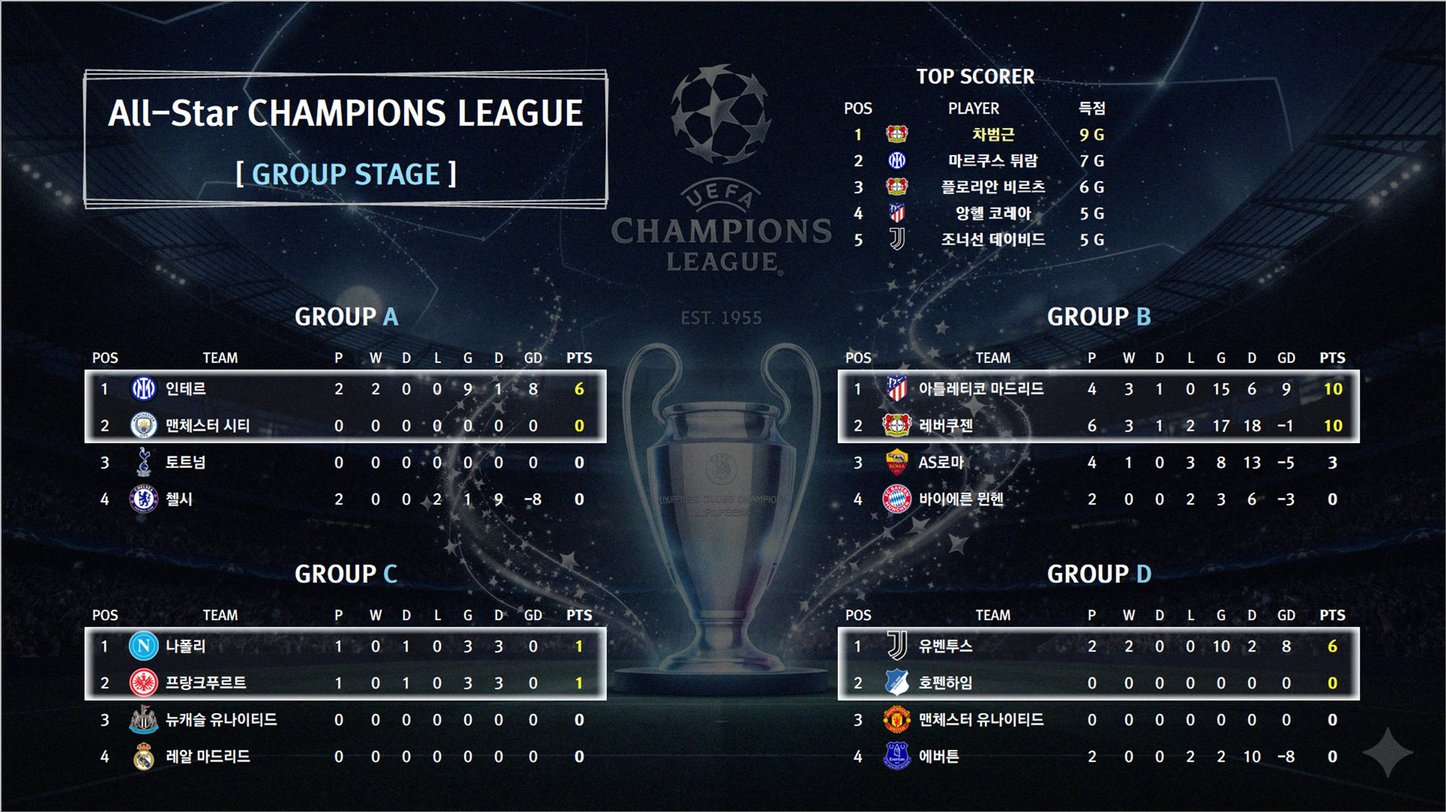
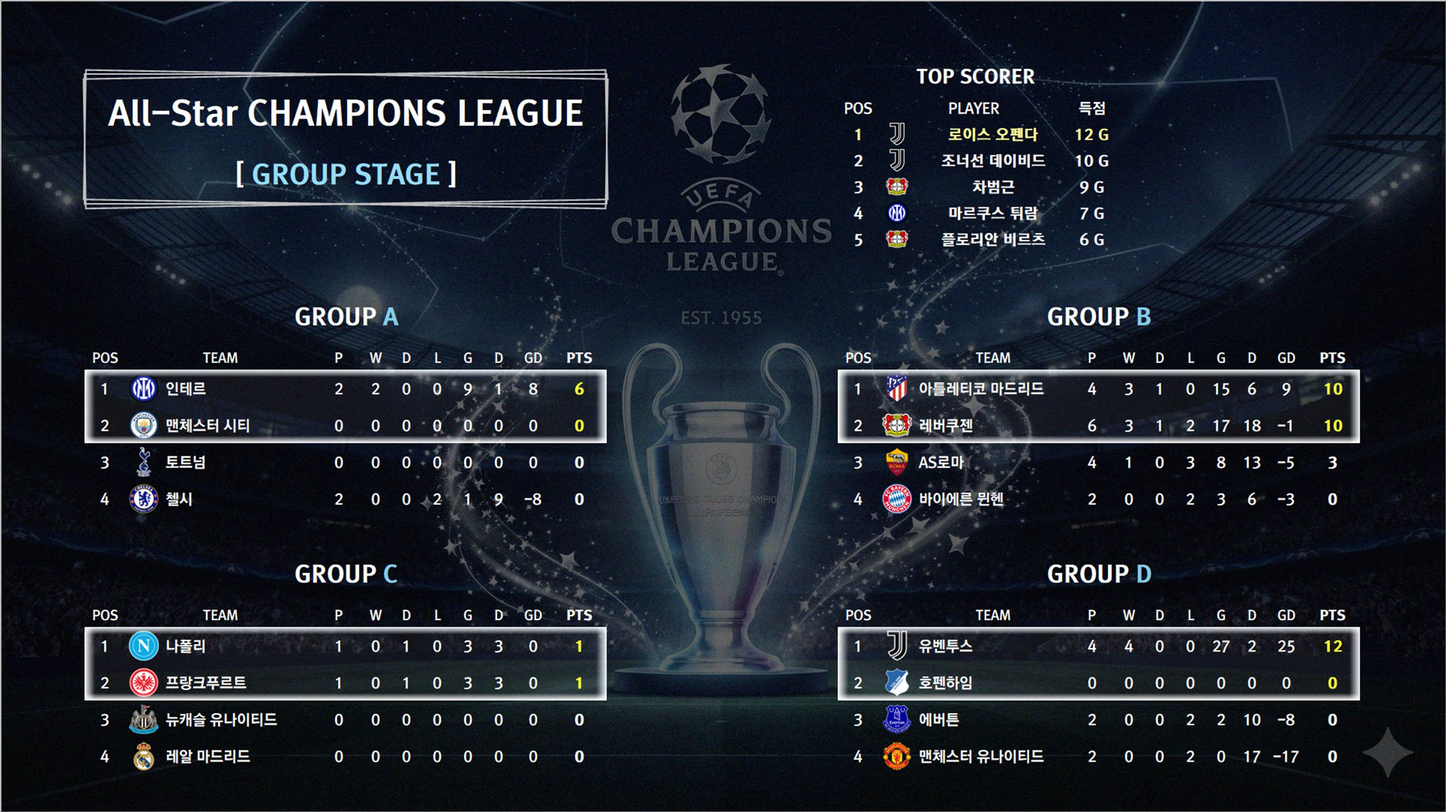
Optimize: 03:41:05

diff --git a/index.html b/index.html
@@ -69,11 +69,11 @@
     <div class="container">
         <div class="card"><h2>🥇 1부 리그 순위표</h2><img src="https://i.ibb.co/C3v0HRJj/498a02164f70.jpg" alt="1부 리그"></div>
         <div class="card"><h2>🥈 2부 리그 순위표</h2><img src="https://i.ibb.co/j9P2tX88/e3b037073f29.jpg" alt="2부 리그"></div>
-        <div class="card"><h2>🌟 UCL 그룹스테이지</h2><img src="https://i.ibb.co/dJk60GPn/2537665fb87b.jpg" alt="UCL 조별"></div>
-        <div class="card"><h2>🏆 UCL 토너먼트 대진표</h2><img src="https://i.ibb.co/1tTFWRf3/defbc446f519.jpg" alt="UCL 토너"></div>
+        <div class="card"><h2>🌟 UCL 그룹스테이지</h2><img src="https://i.ibb.co/vxysSd3v/e18901e5897e.jpg" alt="UCL 조별"></div>
+        <div class="card"><h2>🏆 UCL 토너먼트 대진표</h2><img src="https://i.ibb.co/zH8y0XX2/466521417c55.jpg" alt="UCL 토너"></div>
         <div class="card"><h2>🎖 UEL 토너먼트 대진표</h2><img src="https://i.ibb.co/zHC97Nxq/a2267226ccb8.jpg" alt="UEL 토너"></div>
         <div class="card"><h2>🏅 FA컵 토너먼트 대진표</h2><img src="https://i.ibb.co/Pzx0f23h/364f4b4b809c.jpg" alt="FA컵"></div>
-        <div class="card"><h2>👑 GOLDEN BOOT (통합 득점왕)</h2><img src="https://i.ibb.co/mVQfNy34/c1c1859376fd.jpg" alt="득점왕"></div>
+        <div class="card"><h2>👑 GOLDEN BOOT (통합 득점왕)</h2><img src="https://i.ibb.co/wrrrhRc4/1047d4e929c7.jpg" alt="득점왕"></div>
     </div>
     
     <footer>
